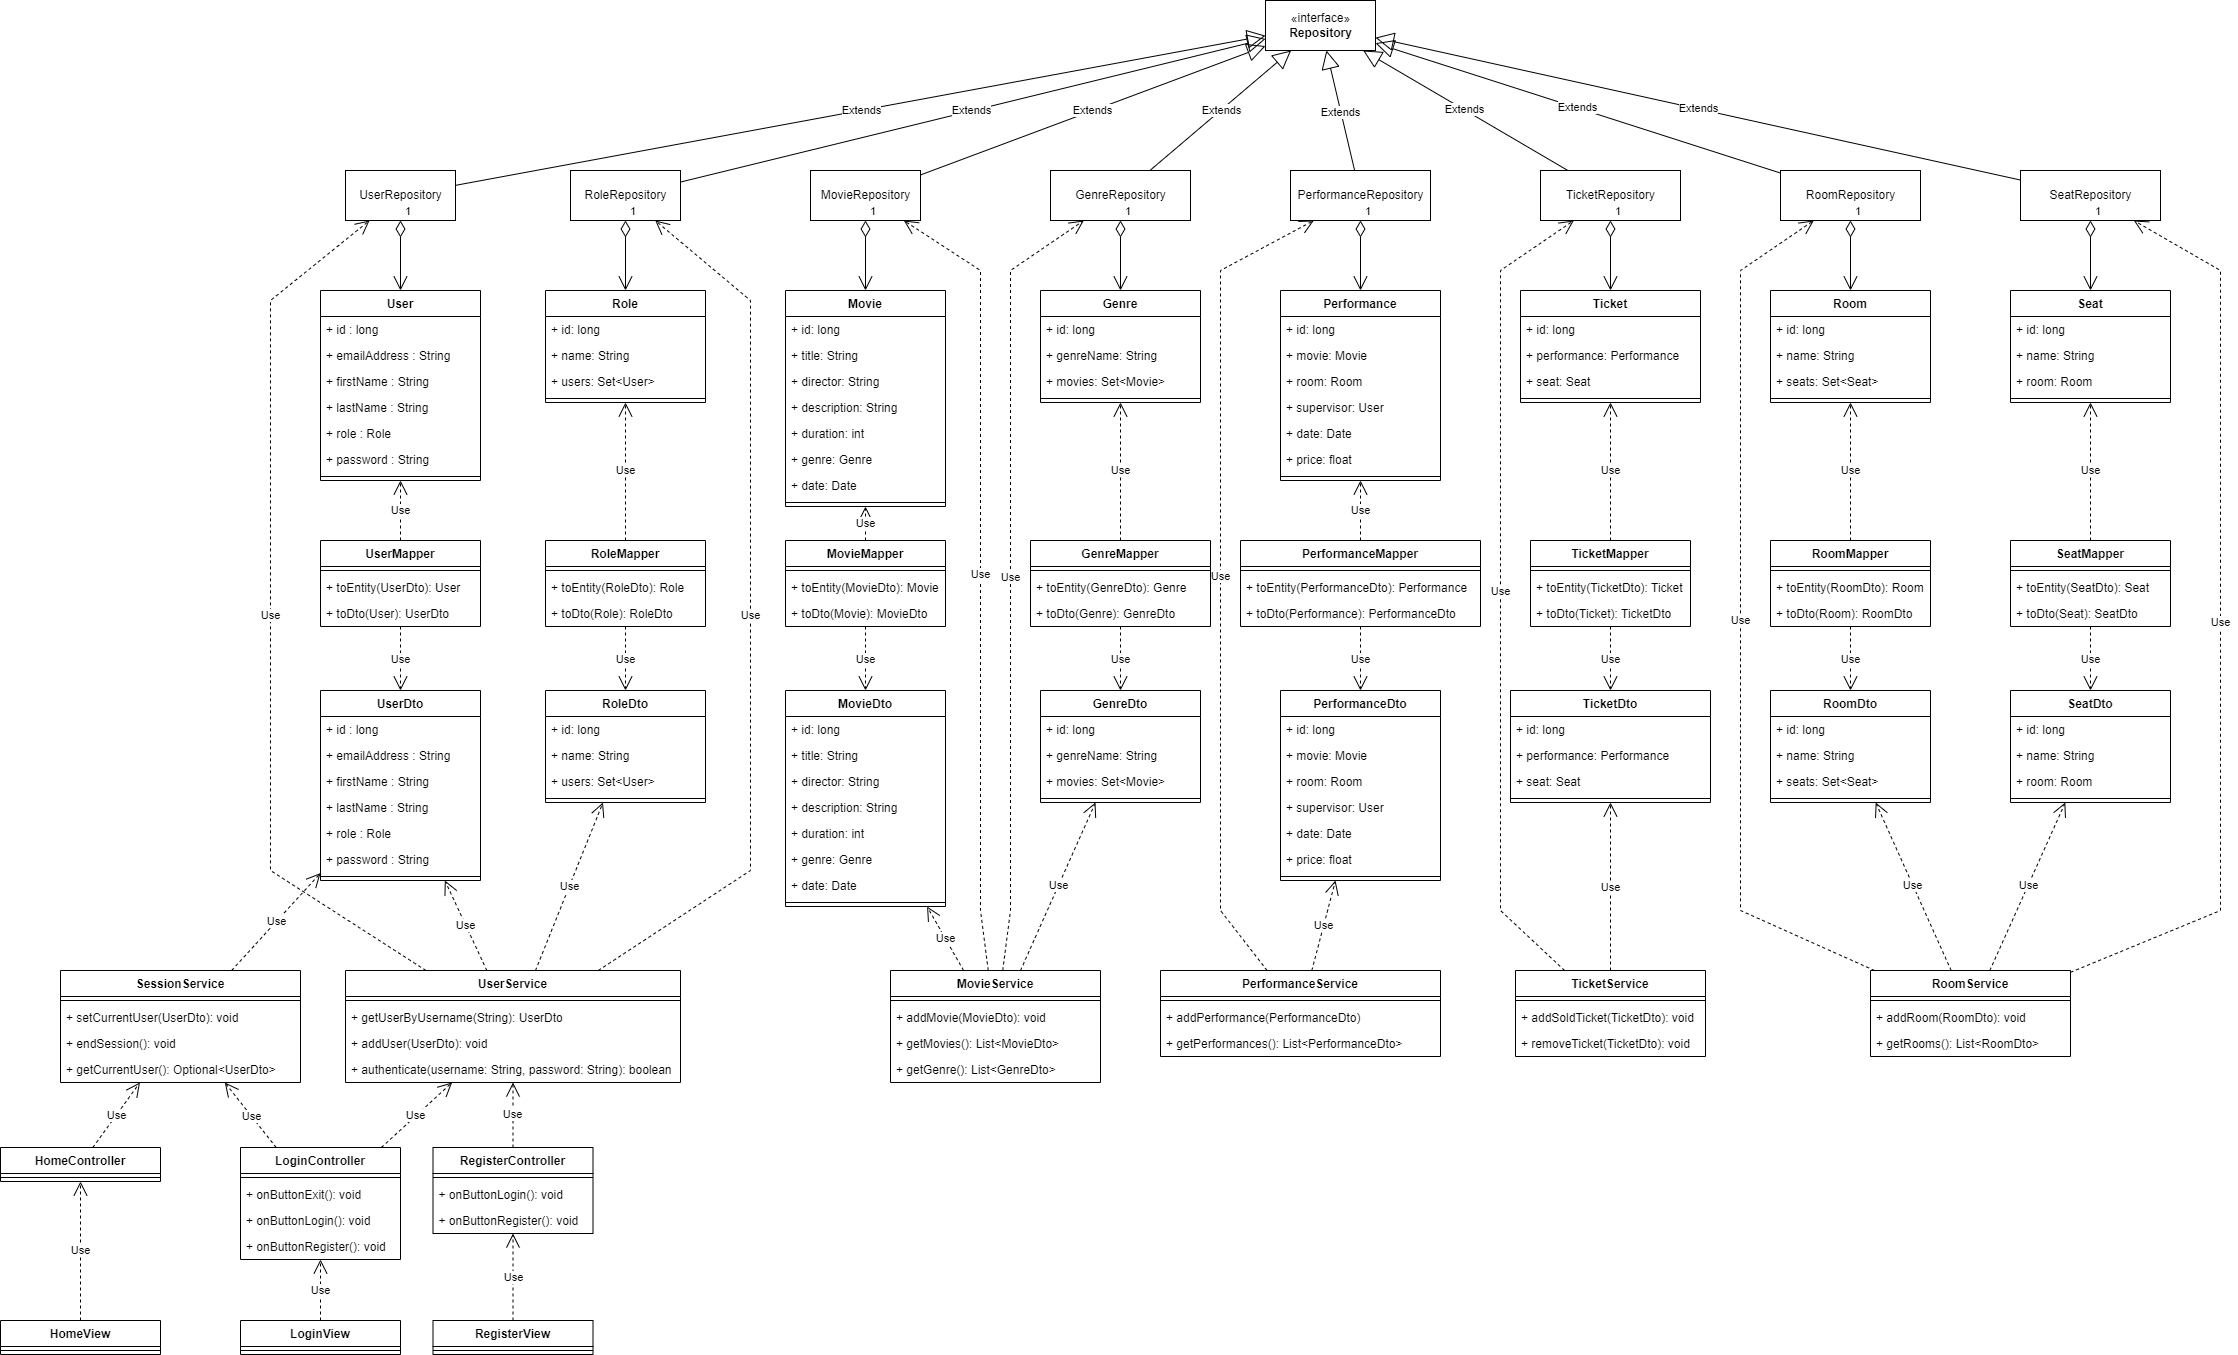
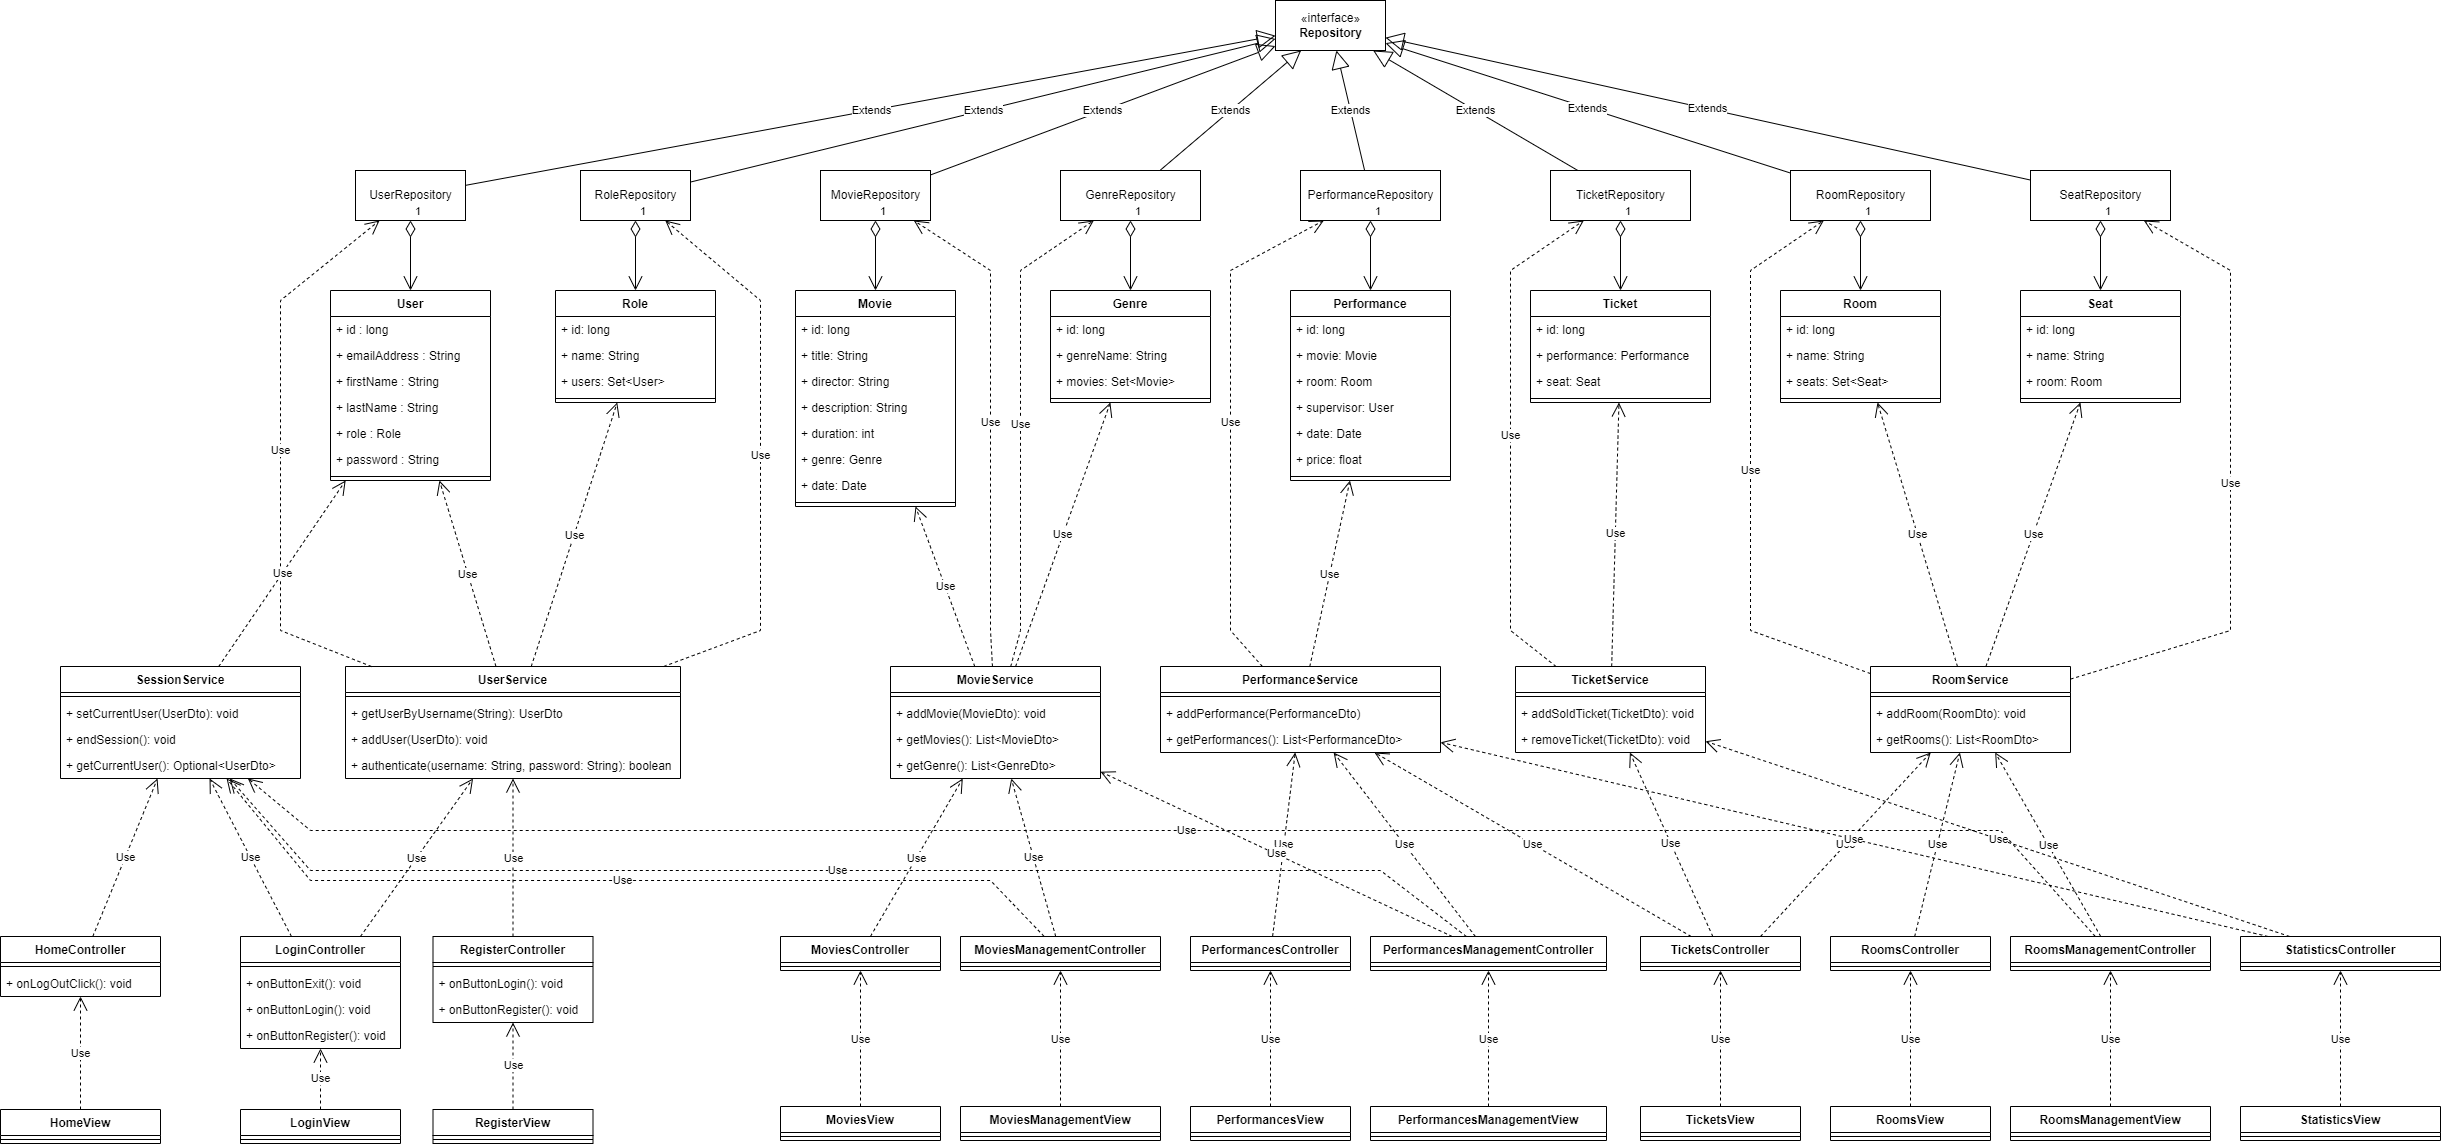
Add documentation for object model

diff --git a/docs/README.md b/docs/README.md
@@ -34,6 +34,7 @@
 - Gradle
 - Spring Framework
 - JavaFX
+- JPA
 - PostgreSQL
 
 ## Opis projektu
@@ -50,14 +51,28 @@ Proces uwierzytelniania wymaga podania nazwy użytkownika, którą jest adres em
 Do haszowania haseł wykorzystano funkcję bcrypt. Hasła w postaci zahaszowanej trzymane są w bazie danych w odpowiedniej tabeli.
 
 ## Model obiektowy
-![Model_obiektowy](images/model_obiektowy.png)
+![Model_obiektowy](../images/model_obiektowy.png)
+
+Warstwa persystencji realizowana jest poprzez JPA (wzorzec Repository).
+
+Obiekty `Repository` (`UserRepository`, `RoleRepository`, `MovieRepository`, `GenreRepository`, `TicketRepository`, `PerformanceRepository`, `RoomRepository`, `SeatRepository`) udostępniają poprzez JPA kwerendy, których wynikami są encje i kolekcje encji.
+
+Obiekty `Service` korzystają z funkcjonalności obiektów `Repository` i udostępniają bardziej ograniczone i złożone API w celu wprowadzenia warstwy abstrakcji pomiędzy kontrolerami i warstwą persystencji. Warto zauważyć, że niektóre obiekty `Service` obsługują więcej niż jeden obiekt `Repository`. Dzieje się tak, kiedy `Repository` ma znaczenie jedynie w kontekscie innej encji (np. encje `Role` mają znaczenie jedyne w konteksie encji `User`).
+
+Następna warstwa aplikacji składa się z obiektów `Controller`, które realizują finkcjonalność warstwy kontrolerów we wzorcu MVC. Korzystając z obiektów `Service` realizują wysokopoziomową logikę biznesową. W szczególności można wyróżnić trzy główne typy kontrolerów:
+
+- Kontrolery sesji i uwierzytelniania, odpowiedzialne za rejestrację/logowanie
+- Kontrolery administracyjne (`Management`), dostępne jedynie dla Admina/Menedżera, pozwalające na modyfikację danych
+- Kontrolery wyświetlania, dostępne dla zwykłego użytkownika. Nie pozwalają one na wprowadzanie zmian. Wyjątkiem jest kontroler `TicketController`, który pracownikowi pozwala na rejestrację sprzedaży biletów.
+
+Każdemu kontrolerowi przypada odpowiedni widok - są to widoki `FXML` z biblioteki JavaFX, pozwalające na imlpementację reaktywnego GUI poprzez powiązania `Binding` JavaFX.
 
 ## Schemat bazy danych
 Ze względu na potrzebę zapewnienia wszystkich potrzebnych informacji, które zostaną wykorzystane do statystyk
 oraz są niezbędne do poprawnego działania systemu, zgodnie z wymaganiami, w bazie znalazły się następujące tabele:
 
 
-![Schemat_bazy_danych](images/schemat_bazy_danych.png)
+![Schemat_bazy_danych](../images/schemat_bazy_danych.png)
 
 - **Roles** - Pełni funkcję słownika. Zawiera role użytkowników występujące w systemie. \
   Dane znajdujące się w tabeli wczytywane są z pliku *roles.txt* przy starcie aplikacji. \
@@ -100,7 +115,7 @@ oraz są niezbędne do poprawnego działania systemu, zgodnie z wymaganiami, w b
 
 ## Widoki
 - **Logowanie**
-  ![Logowanie](images/logowanie.png)
+  ![Logowanie](../images/logowanie.png)
   Widok umożliwia logowanie się do systemu. \
   Po podaniu niepoprawnych danych pojawa się wyskakującę okno blokujące działanie aplikacji w tle,
   informującę o błędzie. Po jego zamknięciu możliwa jest kolejna próba logowania. \
@@ -111,7 +126,7 @@ oraz są niezbędne do poprawnego działania systemu, zgodnie z wymaganiami, w b
 
 
 - **Rejestracja**
-  ![Rejestracja](images/rejestracja.png)
+  ![Rejestracja](../images/rejestracja.png)
   Widok umożliwia założenie konta w systemie. \
   Po podaniu niepoprawnych lub niekompletnych danych pojawa się wyskakującę okno blokujące działanie aplikacji w tle,
   informującę o błędzie. Po jego zamknięciu możliwa jest kolejna próba rejestracji. \
